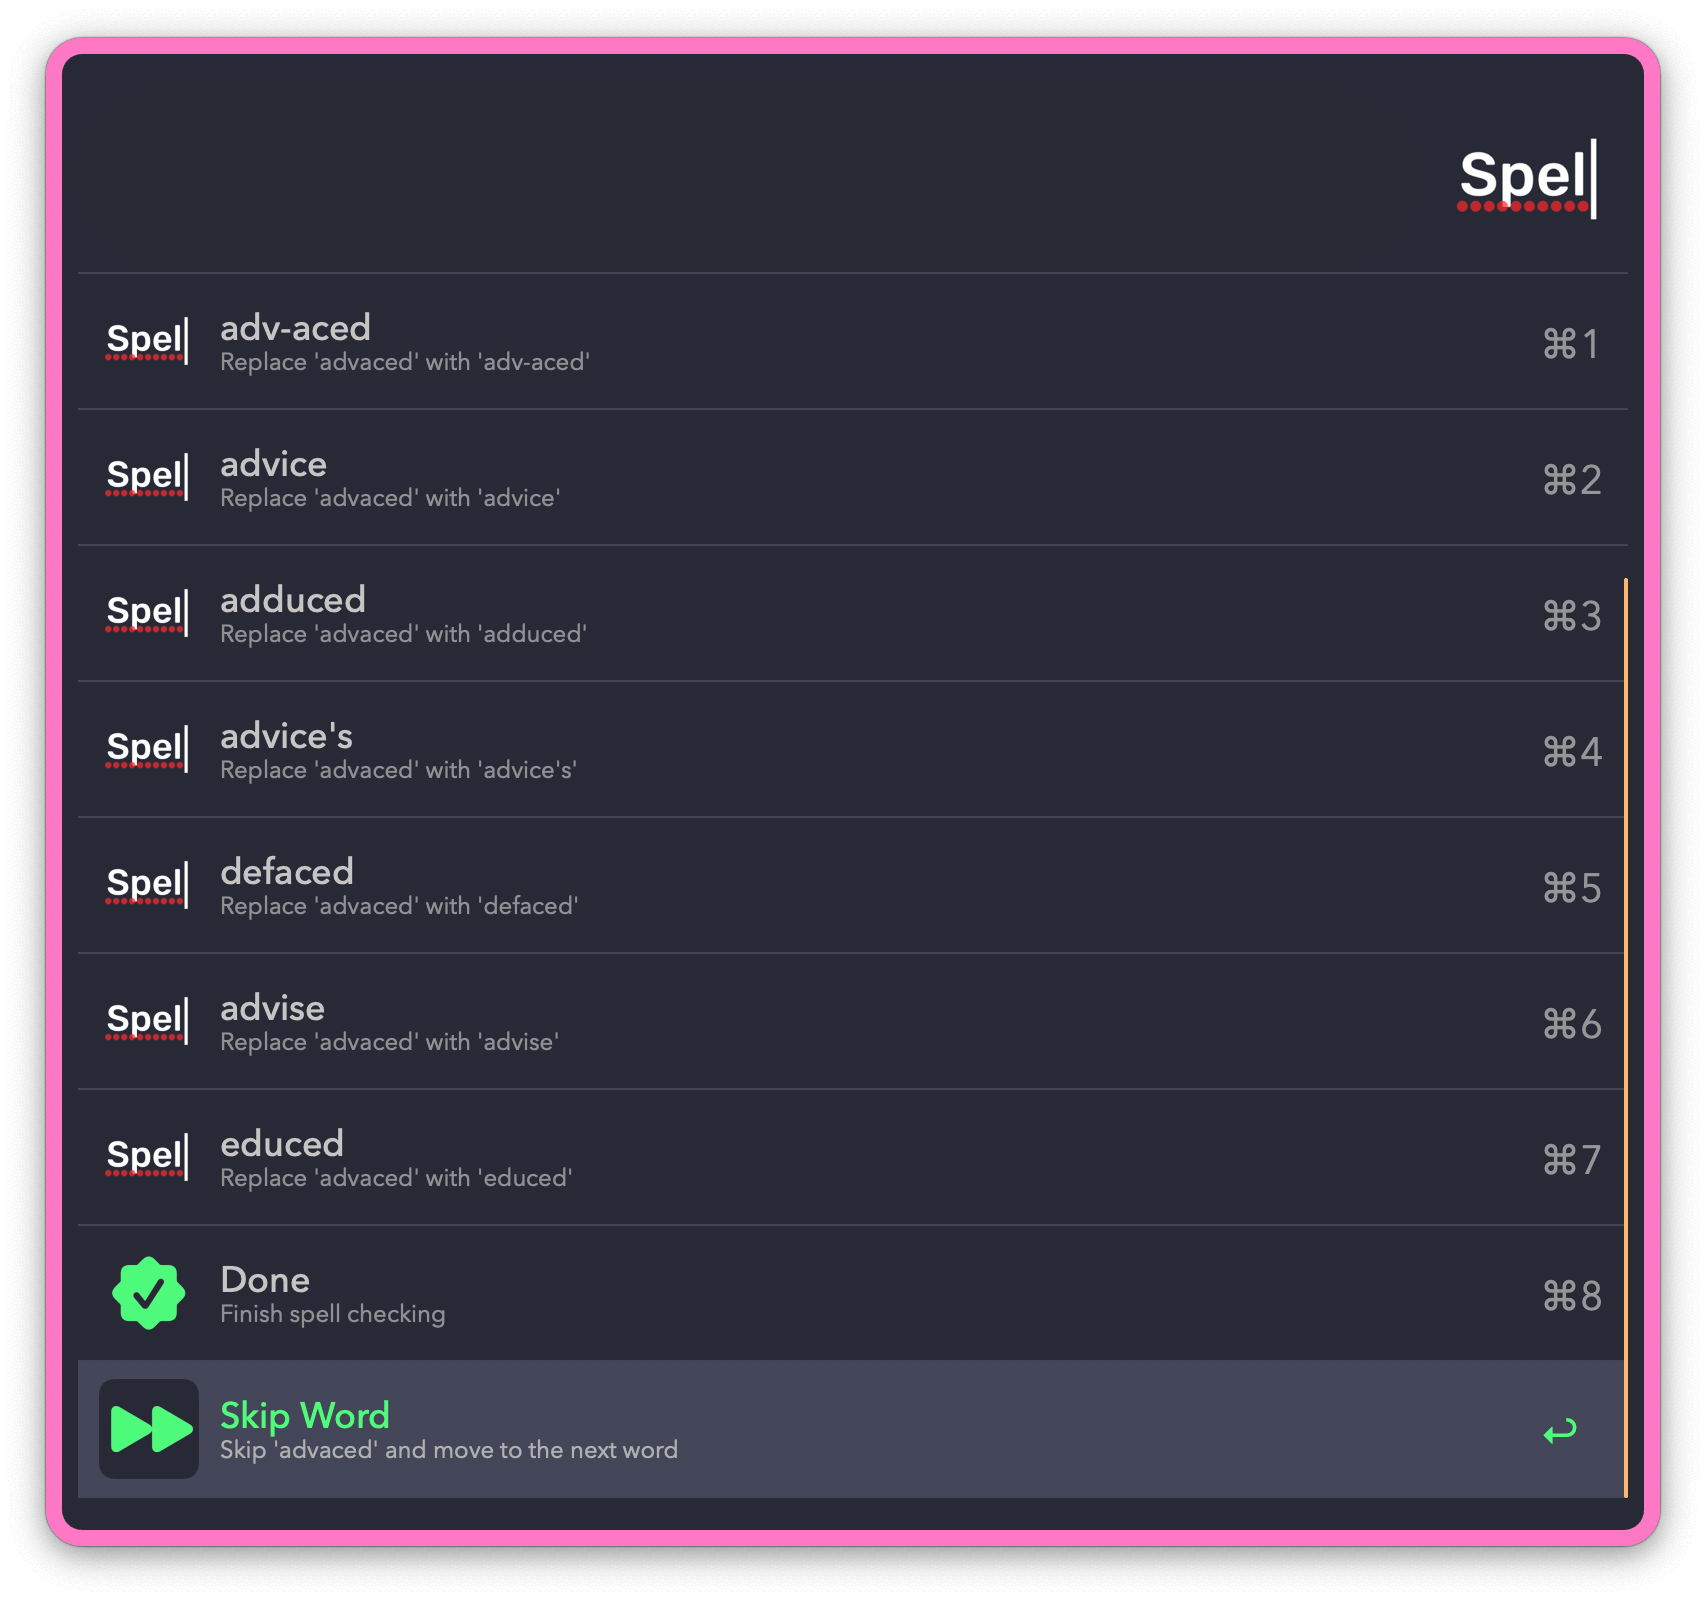
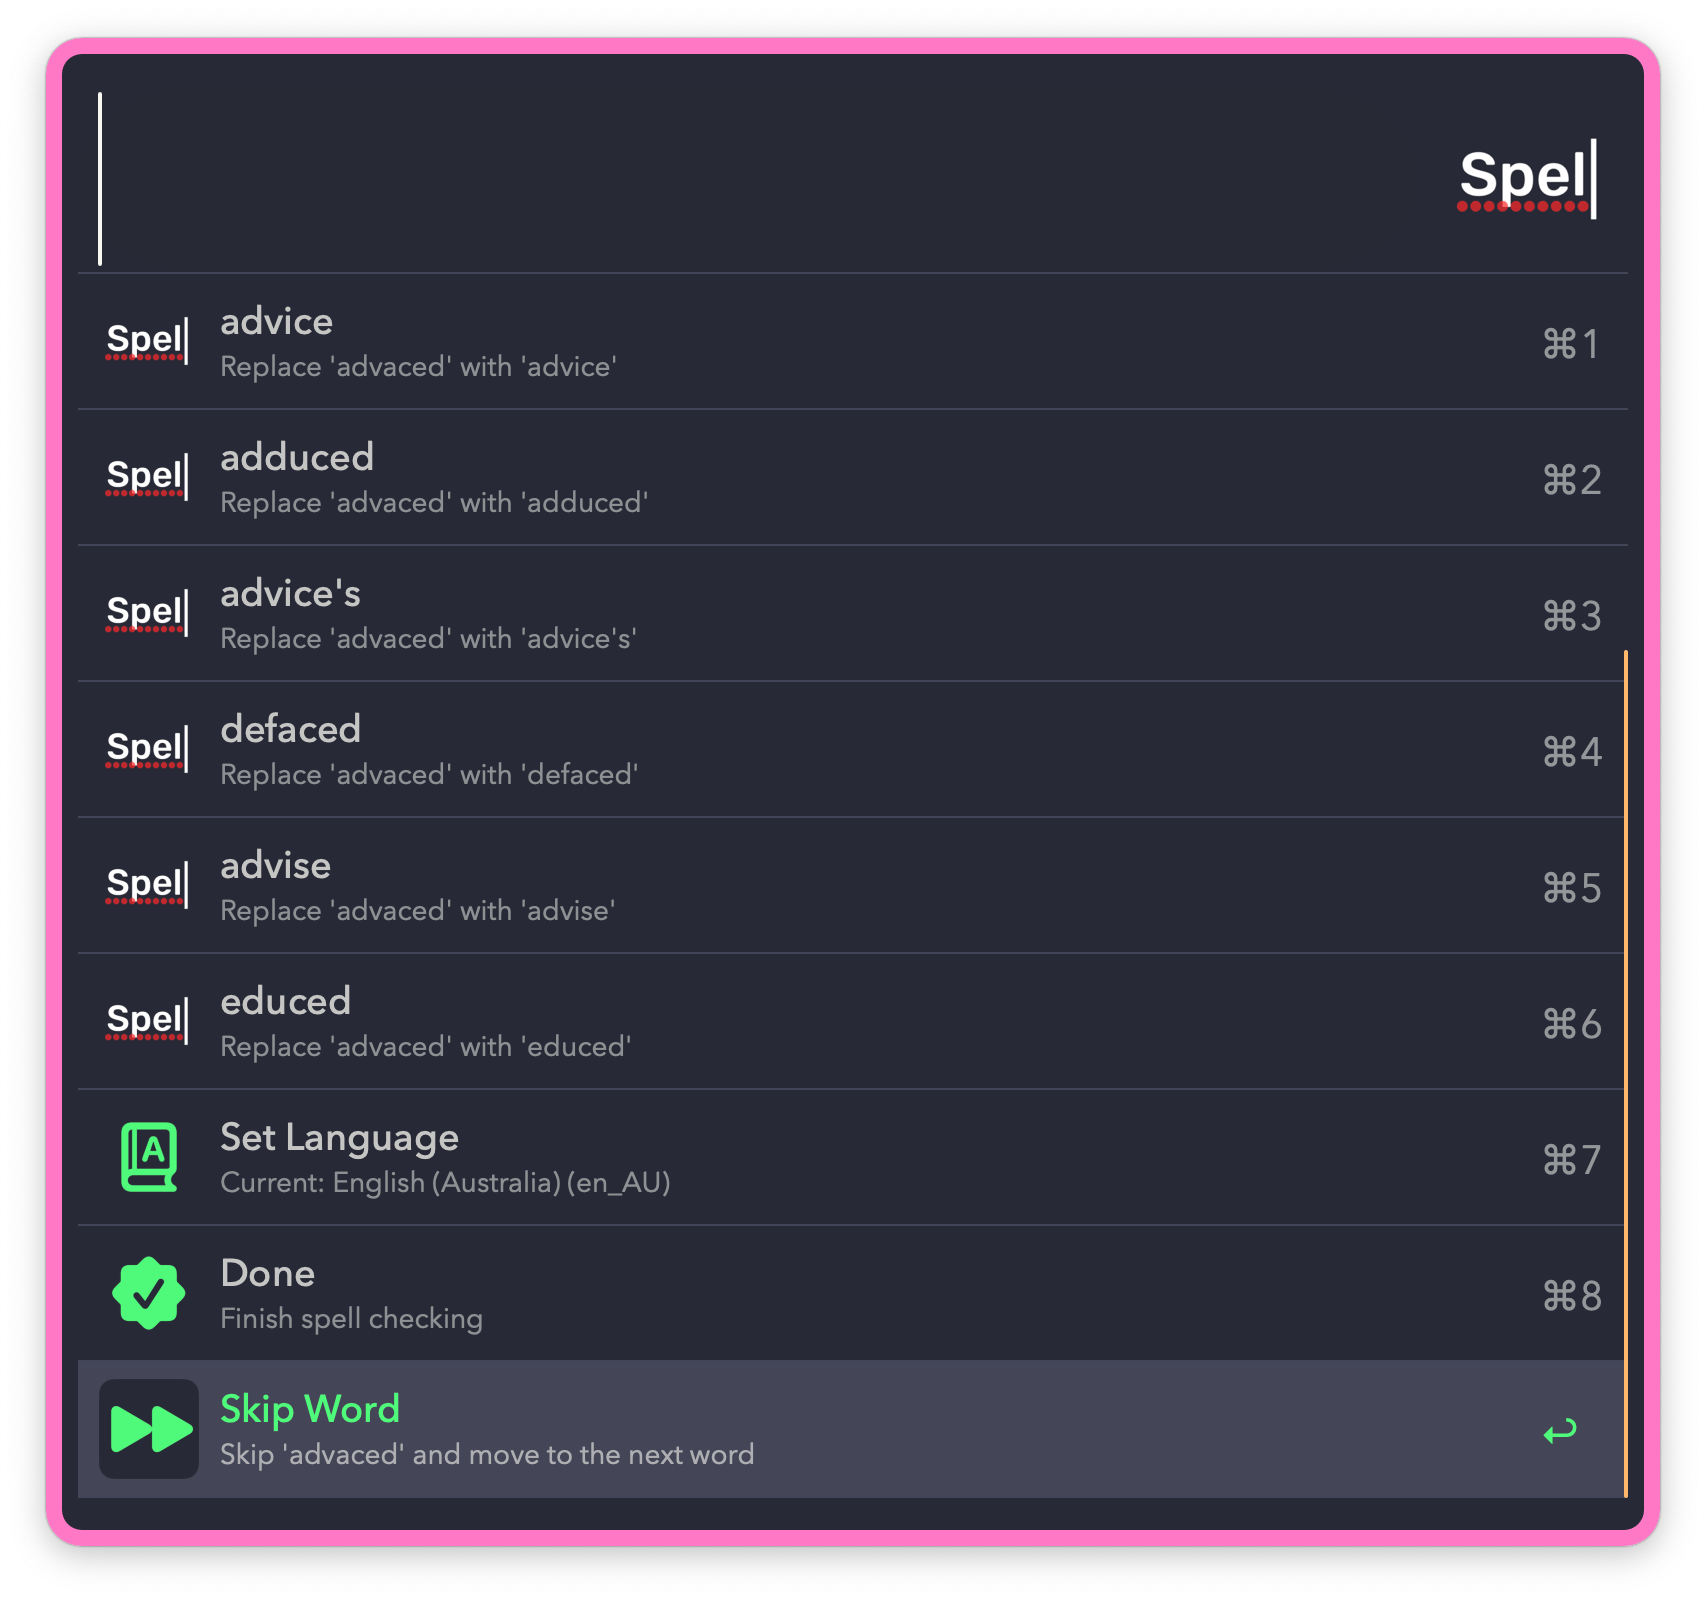
Update readme for Spel (#454)

diff --git a/workflows/floatingpoint/spel/readme.md b/workflows/floatingpoint/spel/readme.md
@@ -6,15 +6,22 @@ Spell check selected text via the Universal Action.
 
 * <kbd>↩</kbd> Interactive spell checking.
 * <kbd>⌥</kbd><kbd>↩</kbd> Automatic spell checking (use with caution).
+* <kbd>⌘</kbd><kbd>↩</kbd> Set language then check spelling.
 
 When running interactively, each misspelt word presents a list of corrections to choose from.
 
 ![Checking word to replace](images/checking.png)
 
-You can skip words from the bottom of the list.
+You can skip words from the bottom of the list. (Tip: Pressing up arrow will take you to the bottom of the list.)
 
 ![Option to skip word](images/skip.png)
 
 On the last step, the result is copied to the clipboard and pasted into the frontmost application. Automatic pasting can be disabled in the Workflow’s Configuration.
 
 ![Showing last step](images/done.png)
+
+Language can also be set:
+
+* In the Workflow’s Configuration.
+* By holding <kbd>⌘</kbd> (command) when invoking.
+* At the bottom of the word list.
